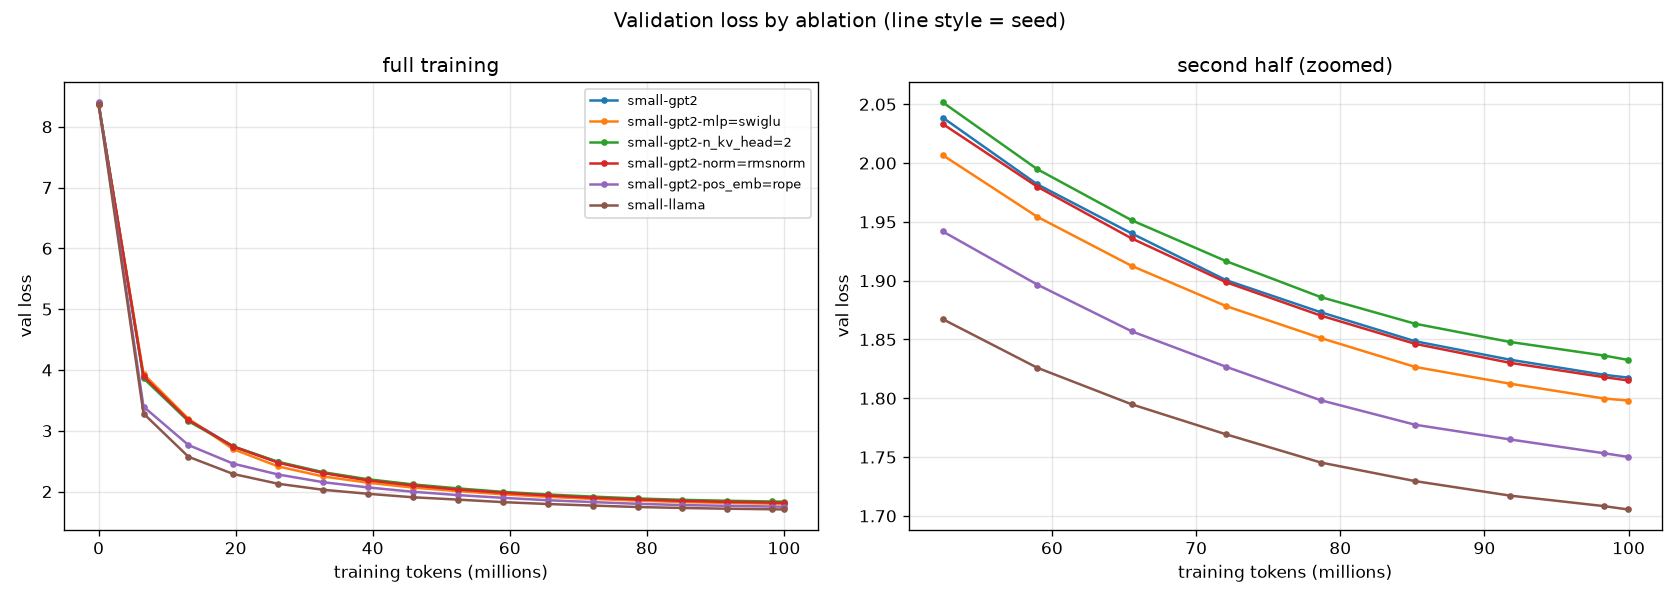
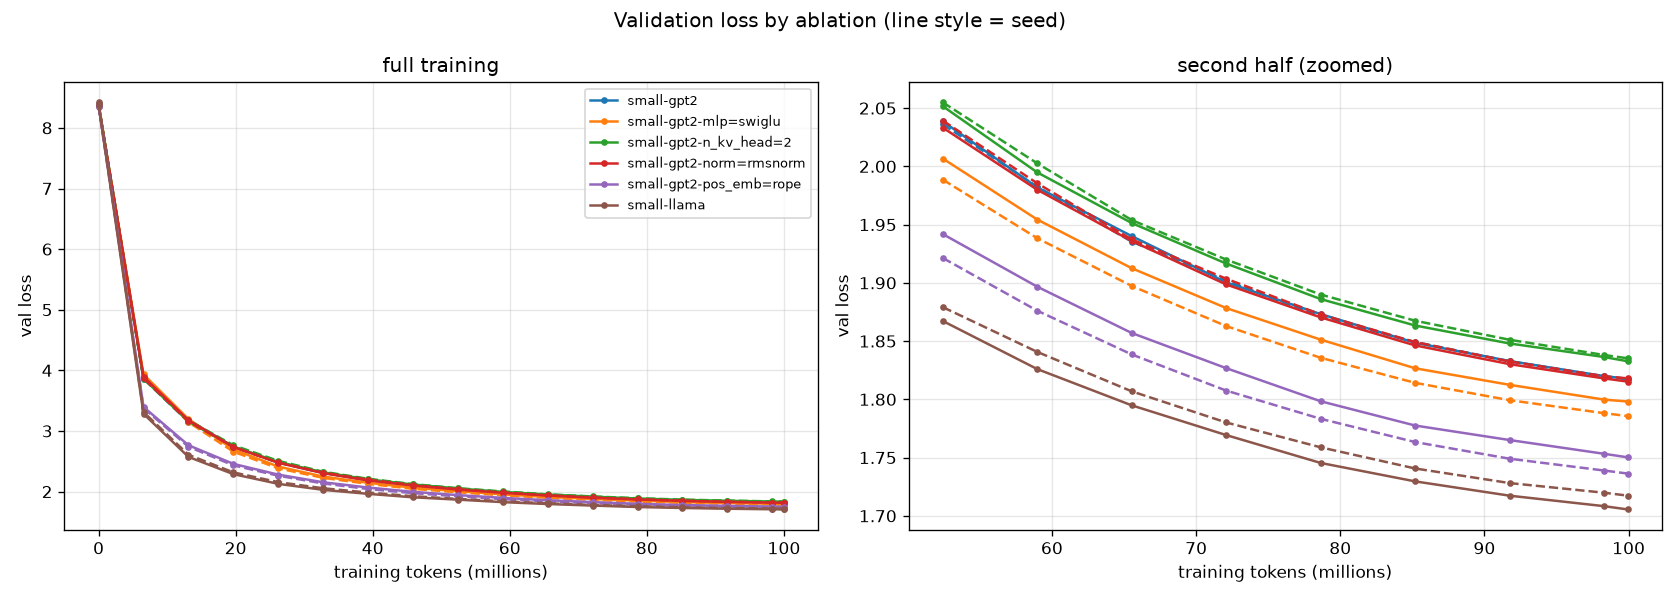
Add seed-2 ablation results and instruction-tuning results
Part 1 now has two seeds per configuration (mean +- std): RoPE -0.079,
SwiGLU -0.026, RMSNorm 0.000, GQA +0.016, full mini-LLaMA -0.107, which
reaches the baseline final loss with 62% of the tokens.

Part 2: SFT of the seed-1 mini-LLaMA raises required-word use from 4.0%
(chance) to 50.7% on 200 held-out instructions.

diff --git a/README.md b/README.md
@@ -8,8 +8,8 @@ A small LLaMA-style language model built from scratch: pretrained, instruction-t
 
 | Part | What | Status |
 |---|---|---|
-| 1. Pretrain | LLaMA architecture (RoPE, RMSNorm, SwiGLU, GQA) + custom BPE tokenizer, trained on TinyStories, with controlled ablations | ✅ (seed 2 pending) |
-| 2. Instruction-tune | SFT so the model follows commands ("write a story about X using words Y, Z") | ⏳ |
+| 1. Pretrain | LLaMA architecture (RoPE, RMSNorm, SwiGLU, GQA) + custom BPE tokenizer, trained on TinyStories, with controlled ablations | ✅ |
+| 2. Instruction-tune | SFT so the model follows commands ("write a story about X using words Y, Z") | ✅ |
 | 3. Serve fast | KV cache, sampling, continuous batching, streaming FastAPI ✅ · INT8 quantization, speculative decoding, Gradio demo ⏳ | 🔨 |
 
 ## Project layout
@@ -122,32 +122,66 @@ One decode step costs 5.4 ms for 1 row and 16.5 ms for 16 rows: 16× the tokens 
 GPT-2 baseline vs each LLaMA change on its own vs all of them together. Every run used the same data,
 data order, tokenizer, 100M-token budget, optimizer and learning-rate schedule, evaluation windows and
 precision ([experiments/PROTOCOL.md](experiments/PROTOCOL.md)). Small size: 6 layers, 384 dims, 512-token
-context. Trained on Kaggle T4 GPUs. Seed 1; seed 2 is pending.
+context. Trained on Kaggle T4 GPUs. **Two seeds per configuration**, reported as mean ± std
+(the seed changes the initialization; the data order is fixed).
 
-| change vs GPT-2 baseline | params | val loss | val bits/byte | Δ loss | reaches baseline's final loss at | train tok/s |
+| change vs GPT-2 baseline | params | val loss | val bits/byte | Δ loss (seed 1 / seed 2) | reaches baseline's final loss at | train tok/s |
 |---|---|---|---|---|---|---|
-| baseline (learned positions, LayerNorm, GELU, multi-head attention) | 12.39M | 1.8329 | 0.6490 | — | 100M tokens | 24,902 |
-| RoPE | 12.19M | 1.7621 | 0.6240 | **−0.071** | 74M (1.35×) | 22,277 |
-| SwiGLU (same params) | 12.39M | 1.8126 | 0.6418 | −0.020 | 89M (1.12×) | 22,985 |
-| RMSNorm | 12.39M | 1.8312 | 0.6484 | −0.002 | 99M (1.01×) | 23,823 |
-| GQA, 2 KV heads | 11.21M | 1.8468 | 0.6540 | +0.014 | not reached | 26,202 |
-| **all four = mini-LLaMA** | **11.02M** | **1.7208** | **0.6093** | **−0.112** | **61M (1.65×)** | 22,448 |
+| baseline (learned positions, LayerNorm, GELU, multi-head attention) | 12.39M | 1.8322 ± 0.0010 | 0.6488 | — | 100M tokens | 24,952 |
+| RoPE | 12.19M | 1.7536 ± 0.0120 | 0.6209 | **−0.079** (−0.071 / −0.086) | 72M (1.39×) | 22,331 |
+| SwiGLU (same params) | 12.39M | 1.8062 ± 0.0090 | 0.6396 | −0.026 (−0.020 / −0.032) | 87M (1.15×) | 23,010 |
+| RMSNorm | 12.39M | 1.8322 ± 0.0014 | 0.6488 | 0.000 (−0.002 / +0.002) | ~100M (no gain) | 23,826 |
+| GQA, 2 KV heads | 11.21M | 1.8480 ± 0.0017 | 0.6544 | +0.016 (+0.014 / +0.018) | not reached | 26,209 |
+| **all four = mini-LLaMA** | **11.02M** | **1.7254 ± 0.0065** | **0.6110** | **−0.107** (−0.112 / −0.101) | **62M (1.61×)** | 22,451 |
 
 ![validation loss curves](experiments/loss_curves.png)
 
-- **RoPE is the biggest single win** (−0.071), with 0.2M fewer parameters, since the position table is gone.
-- **SwiGLU helps at equal parameter count** (−0.020), but trains about 8% slower per token.
-- **RMSNorm changes nothing measurable** (−0.002 is within noise). That's expected: it makes the norm
-  cheaper, not the model better. Here it's even a little slower, because it's written as plain PyTorch ops
-  while LayerNorm has a fused kernel.
-- **GQA costs some quality** (+0.014) in exchange for 9.5% fewer parameters, faster training and a 3× smaller
-  KV cache. It's an inference trade-off, and it lets more requests fit in a batch.
-- **The changes combine better than their sum:** the four single deltas add up to −0.079, the full model
-  gets −0.112.
-- **The mini-LLaMA reaches the baseline's final loss with 61% of the training tokens.** That's measured on the
-  validation curve (evaluated every ~6.5M tokens, linearly interpolated), mid-schedule. A run budgeted for 60M
-  tokens would anneal its learning rate and end lower, so 1.65× is a conservative figure.
+*Solid and dashed lines are the two seeds.*
 
-Caveats: one seed so far, so the RMSNorm and SwiGLU gaps still need error bars from seed 2; RoPE and
-the full model are far beyond typical seed noise. All runs trained in bfloat16, which the T4 only emulates.
-That's slower than float16 but identical across runs, so the comparison holds.
+- **RoPE is the biggest single win** (−0.079), with 0.2M fewer parameters, since the position table is gone.
+- **SwiGLU helps at equal parameter count** (−0.026 on both seeds), but trains about 8% slower per token.
+- **RMSNorm changes nothing measurable**: the difference flips sign between seeds. That's expected: it makes
+  the norm cheaper, not the model better. Here it's even a little slower, because it's written as plain
+  PyTorch ops while LayerNorm has a fused kernel.
+- **GQA costs some quality** (+0.016 on both seeds) in exchange for 9.5% fewer parameters, faster training and
+  a 3× smaller KV cache. It's an inference trade-off, and it lets more requests fit in a batch.
+- **The changes combine better than their sum:** the four single deltas add up to −0.089, the full model
+  gets −0.107. With two seeds this is suggestive rather than proven.
+- **The mini-LLaMA reaches the baseline's final loss with 62% of the training tokens** (61M and 64M on the
+  two seeds). That's measured on the validation curve (evaluated every ~6.5M tokens, linearly interpolated),
+  mid-schedule. A run budgeted for 60M tokens would anneal its learning rate and end lower, so 1.61× is a
+  conservative figure.
+
+Caveats: two seeds give a rough error bar, not a tight one. Seed-to-seed spread is 0.001 for the baseline
+but about 0.01 for RoPE and SwiGLU; every effect except RMSNorm points the same way on both seeds. All runs
+trained in bfloat16, which the T4 only emulates. That's slower than float16 but identical across runs, so
+the comparison holds.
+
+### Part 2: does instruction tuning work?
+
+The seed-1 mini-LLaMA, fine-tuned for one epoch on 100k TinyStories-Instruct examples (3,125 steps of 32,
+lr 1e-4, loss on response tokens only). 8 minutes on one T4 in float16. Validation loss on response tokens
+went from 1.729 to 1.434 and was still falling slowly at the end.
+
+Evaluation: 200 held-out instructions, each asking for a story that uses 3 given words (temperature 0.7,
+top-p 0.9, up to 300 tokens). The pretrained model gets the instruction as plain text: it has never seen the
+chat format, so its score is the chance level, how often the words show up anyway.
+
+| model | required words used | all 3 words used | stopped on its own | mean length |
+|---|---|---|---|---|
+| pretrained mini-LLaMA (chance level) | 4.0% | 0.0% | 99.0% | 175 tokens |
+| **after SFT** | **50.7%** | **13.0%** | 97.5% | 179 tokens |
+
+- **The SFT model reads the instruction:** it uses 12.7× more of the required words than chance.
+- **It's partial, not reliable:** only 13% of stories use all three words. An 11M-parameter model trained
+  for 8 minutes follows instructions some of the time. Longer training is the obvious next step.
+
+Example (seed 0, CPU):
+
+> **Write a story. Use the words: rain, ball, happy.**
+>
+> Once upon a time, there was a little girl named Lily. She loved to play in the **rain** and get wet. One day,
+> she went outside to play and her feet were very wet. She ran and jumped, feeling so **happy**.
+>
+> Later that day, Lily and her family went to the park to play. They played on a **ball** and threw it back to
+> each other. …

diff --git a/experiments/ablations.md b/experiments/ablations.md
@@ -1,11 +1,10 @@
 | changes vs baseline | params | seeds | val loss | val bpb | Δ loss | tokens/s |
 |---|---|---|---|---|---|---|
-| baseline | 12.39M | 1 | 1.8329 | 0.6490 | +0.0000 | 24,902 |
-| mlp=swiglu | 12.39M | 1 | 1.8126 | 0.6418 | -0.0203 | 22,985 |
-| n_kv_head=2 | 11.21M | 1 | 1.8468 | 0.6540 | +0.0139 | 26,202 |
-| norm=rmsnorm | 12.39M | 1 | 1.8312 | 0.6484 | -0.0017 | 23,823 |
-| pos_emb=rope | 12.19M | 1 | 1.7621 | 0.6240 | -0.0709 | 22,277 |
-| n_kv_head=2, pos_emb=rope, norm=rmsnorm, mlp=swiglu ⚠ 4 changes | 11.02M | 1 | 1.7208 | 0.6093 | -0.1121 | 22,448 |
+| baseline | 12.39M | 2 | 1.8322 ± 0.0010 | 0.6488 ± 0.0004 | +0.0000 | 24,952 |
+| mlp=swiglu | 12.39M | 2 | 1.8062 ± 0.0090 | 0.6396 ± 0.0032 | -0.0260 | 23,010 |
+| n_kv_head=2 | 11.21M | 2 | 1.8480 ± 0.0017 | 0.6544 ± 0.0006 | +0.0158 | 26,209 |
+| norm=rmsnorm | 12.39M | 2 | 1.8322 ± 0.0014 | 0.6488 ± 0.0005 | +0.0000 | 23,826 |
+| pos_emb=rope | 12.19M | 2 | 1.7536 ± 0.0120 | 0.6209 ± 0.0043 | -0.0786 | 22,331 |
+| n_kv_head=2, pos_emb=rope, norm=rmsnorm, mlp=swiglu ⚠ 4 changes | 11.02M | 2 | 1.7254 ± 0.0065 | 0.6110 ± 0.0023 | -0.1068 | 22,451 |
 
 All runs: 99.9M tokens, block 512, lr 0.001, data_seed 1337, 2000 val windows, bfloat16, tokenizer tokenizer/tinystories_4k.json.
-Groups with 1 seed have no error bar: a small Δ loss there may just be seed noise.
